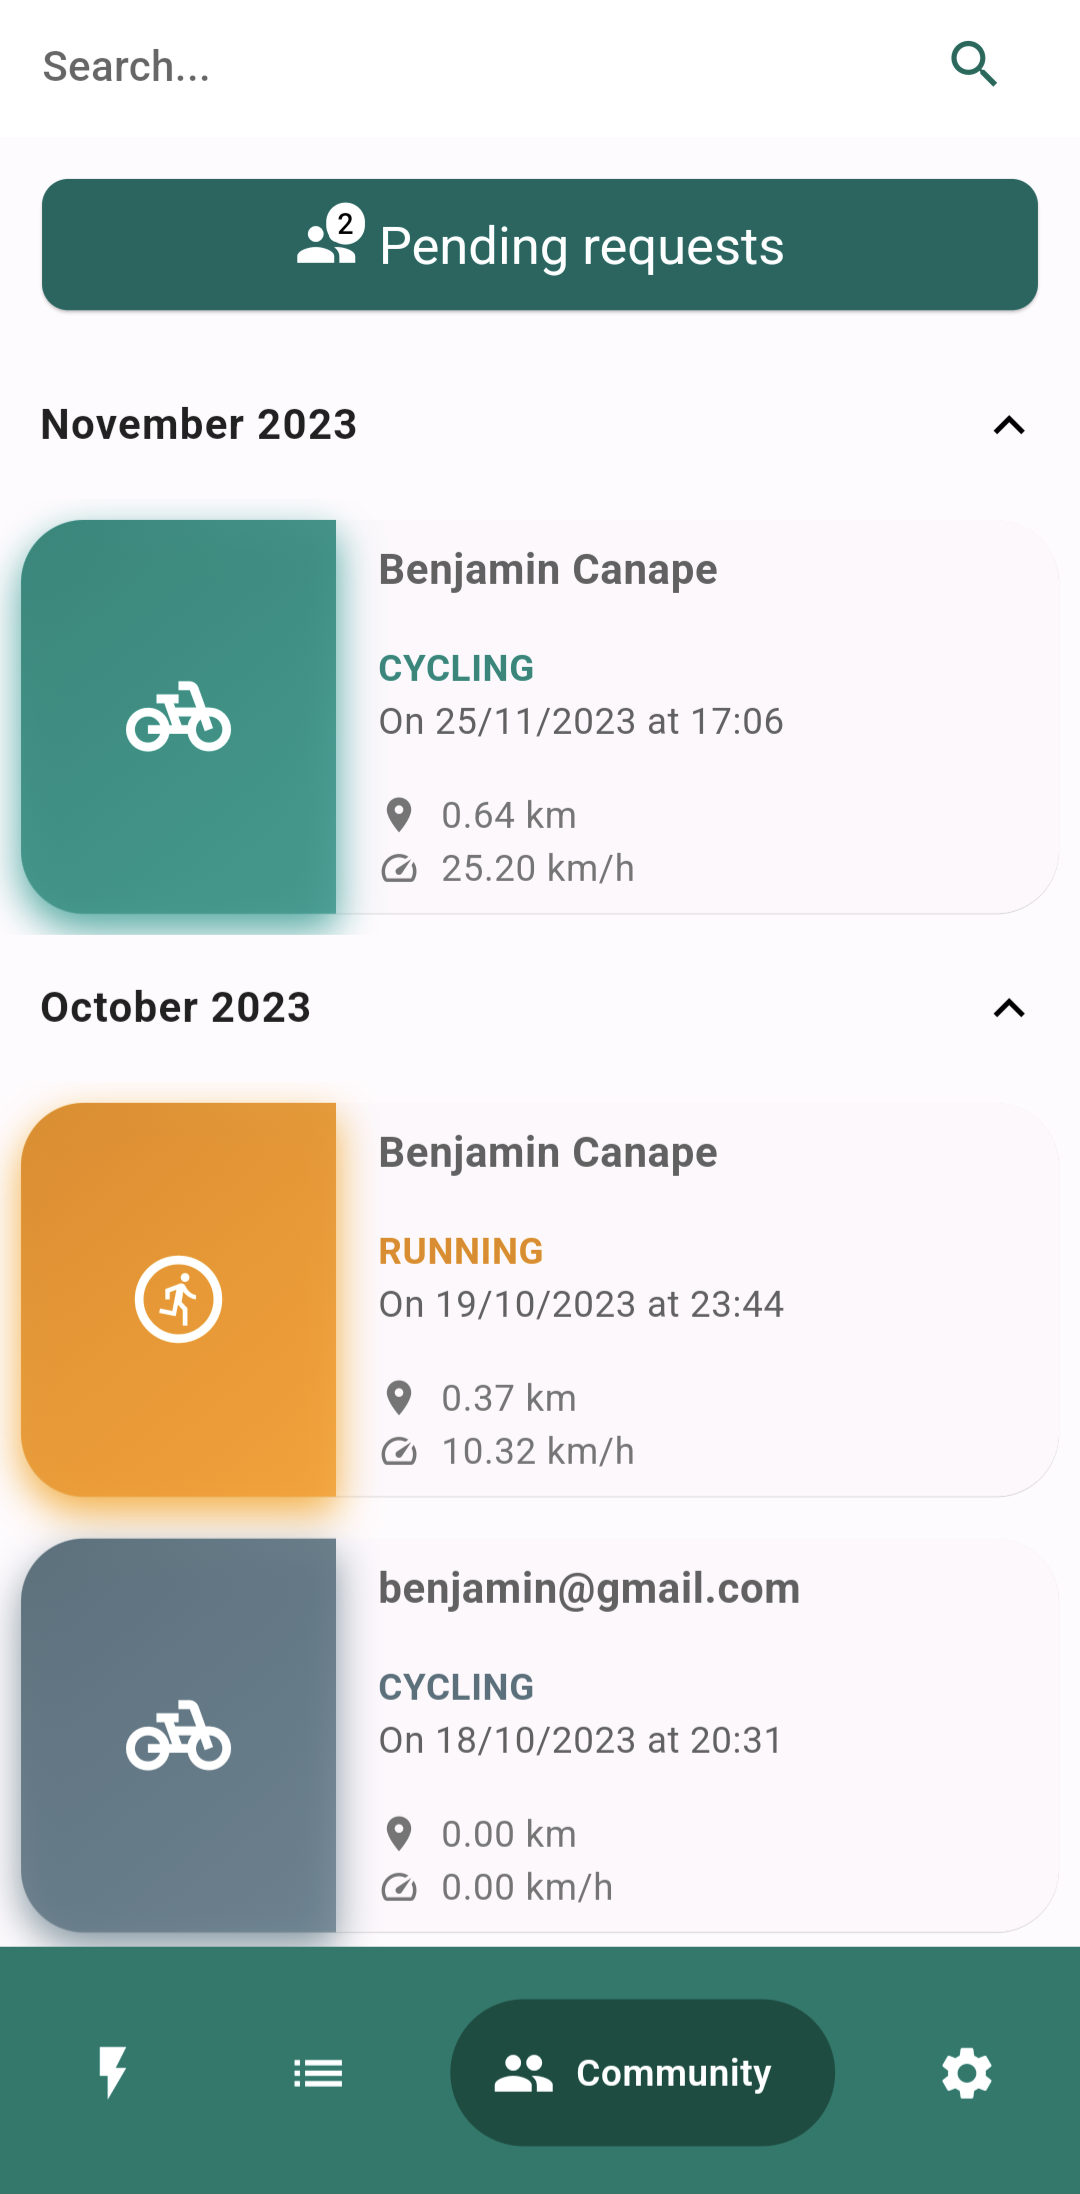
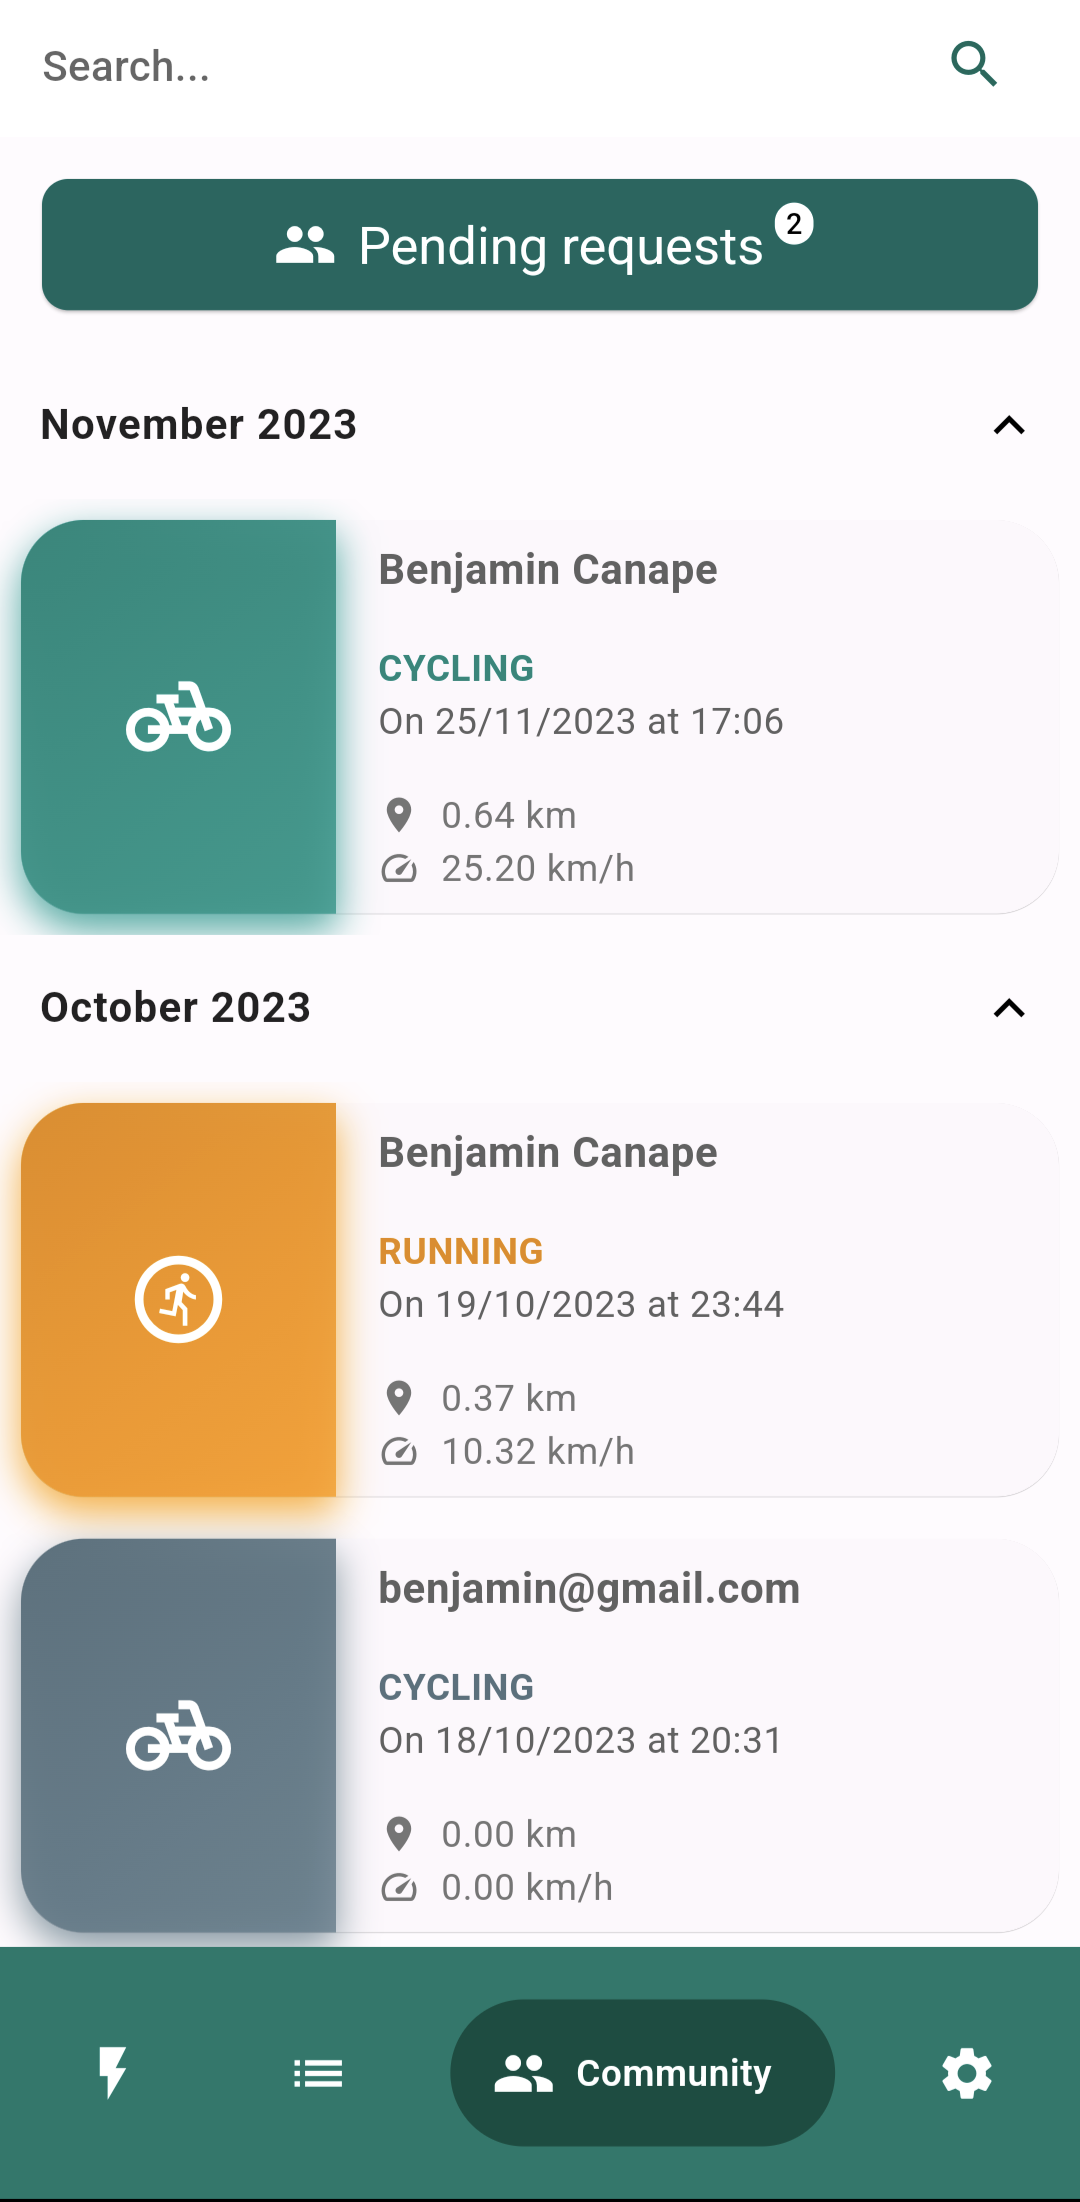
move badge on pending requests

diff --git a/lib/presentation/community/screens/community_screen.dart b/lib/presentation/community/screens/community_screen.dart
@@ -54,50 +54,50 @@ class CommunityScreen extends HookConsumerWidget {
                       padding: const EdgeInsets.symmetric(
                           horizontal: 16.0, vertical: 16.0),
                       child: ElevatedButton(
-                        style: FormUtils.buttonStyle,
-                        onPressed: () {
-                          Navigator.push(
-                            context,
-                            PageRouteBuilder(
-                              transitionDuration:
-                                  const Duration(milliseconds: 500),
-                              pageBuilder:
-                                  (context, animation, secondaryAnimation) =>
-                                      SlideTransition(
-                                position: Tween<Offset>(
-                                  begin: const Offset(1.0, 0.0),
-                                  end: Offset.zero,
-                                ).animate(animation),
-                                child: const PendingRequestsScreen(),
-                              ),
-                            ),
-                          );
-                        },
-                        child: Align(
-                          alignment: Alignment.center,
-                          child: Row(
-                            mainAxisSize: MainAxisSize.min,
-                            children: [
-                              Badge.count(
-                                count:
-                                    pendingRequestsState.pendingRequests.length,
-                                textColor: Colors.black,
-                                backgroundColor: Colors.white,
-                                child: const Icon(
-                                  Icons.people,
-                                  color: Colors.white,
+                          style: FormUtils.buttonStyle,
+                          onPressed: () {
+                            Navigator.push(
+                              context,
+                              PageRouteBuilder(
+                                transitionDuration:
+                                    const Duration(milliseconds: 500),
+                                pageBuilder:
+                                    (context, animation, secondaryAnimation) =>
+                                        SlideTransition(
+                                  position: Tween<Offset>(
+                                    begin: const Offset(1.0, 0.0),
+                                    end: Offset.zero,
+                                  ).animate(animation),
+                                  child: const PendingRequestsScreen(),
                                 ),
                               ),
-                              const SizedBox(width: 8),
-                              Text(
-                                AppLocalizations.of(context)!
-                                    .see_pending_requests,
-                                style: FormUtils.darkTextFormFieldStyle,
-                              ),
-                            ],
-                          ),
-                        ),
-                      ),
+                            );
+                          },
+                          child: Align(
+                              alignment: Alignment.center,
+                              child: Badge.count(
+                                  count: pendingRequestsState
+                                      .pendingRequests.length,
+                                  textColor: Colors.black,
+                                  backgroundColor: Colors.white,
+                                  child: Padding(
+                                      padding: const EdgeInsets.fromLTRB(
+                                          0, 0, 16, 0),
+                                      child: Row(
+                                          mainAxisSize: MainAxisSize.min,
+                                          children: [
+                                            const Icon(
+                                              Icons.people,
+                                              color: Colors.white,
+                                            ),
+                                            const SizedBox(width: 8),
+                                            Text(
+                                              AppLocalizations.of(context)!
+                                                  .see_pending_requests,
+                                              style: FormUtils
+                                                  .darkTextFormFieldStyle,
+                                            ),
+                                          ]))))),
                     )
                   : Container();
             },
